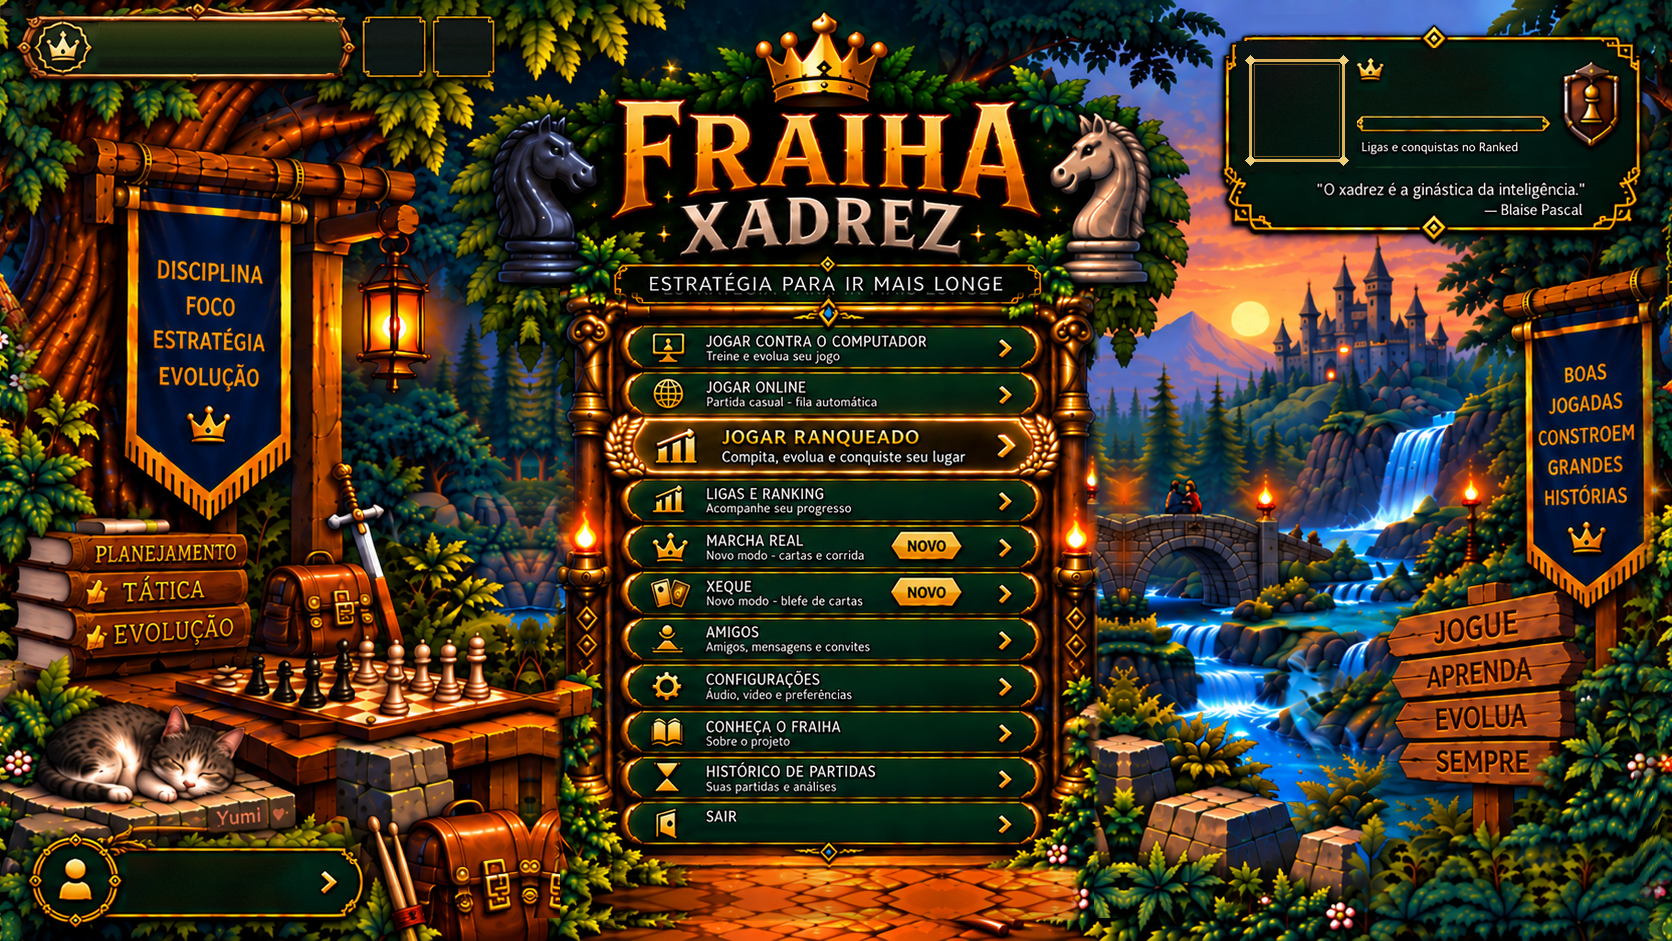
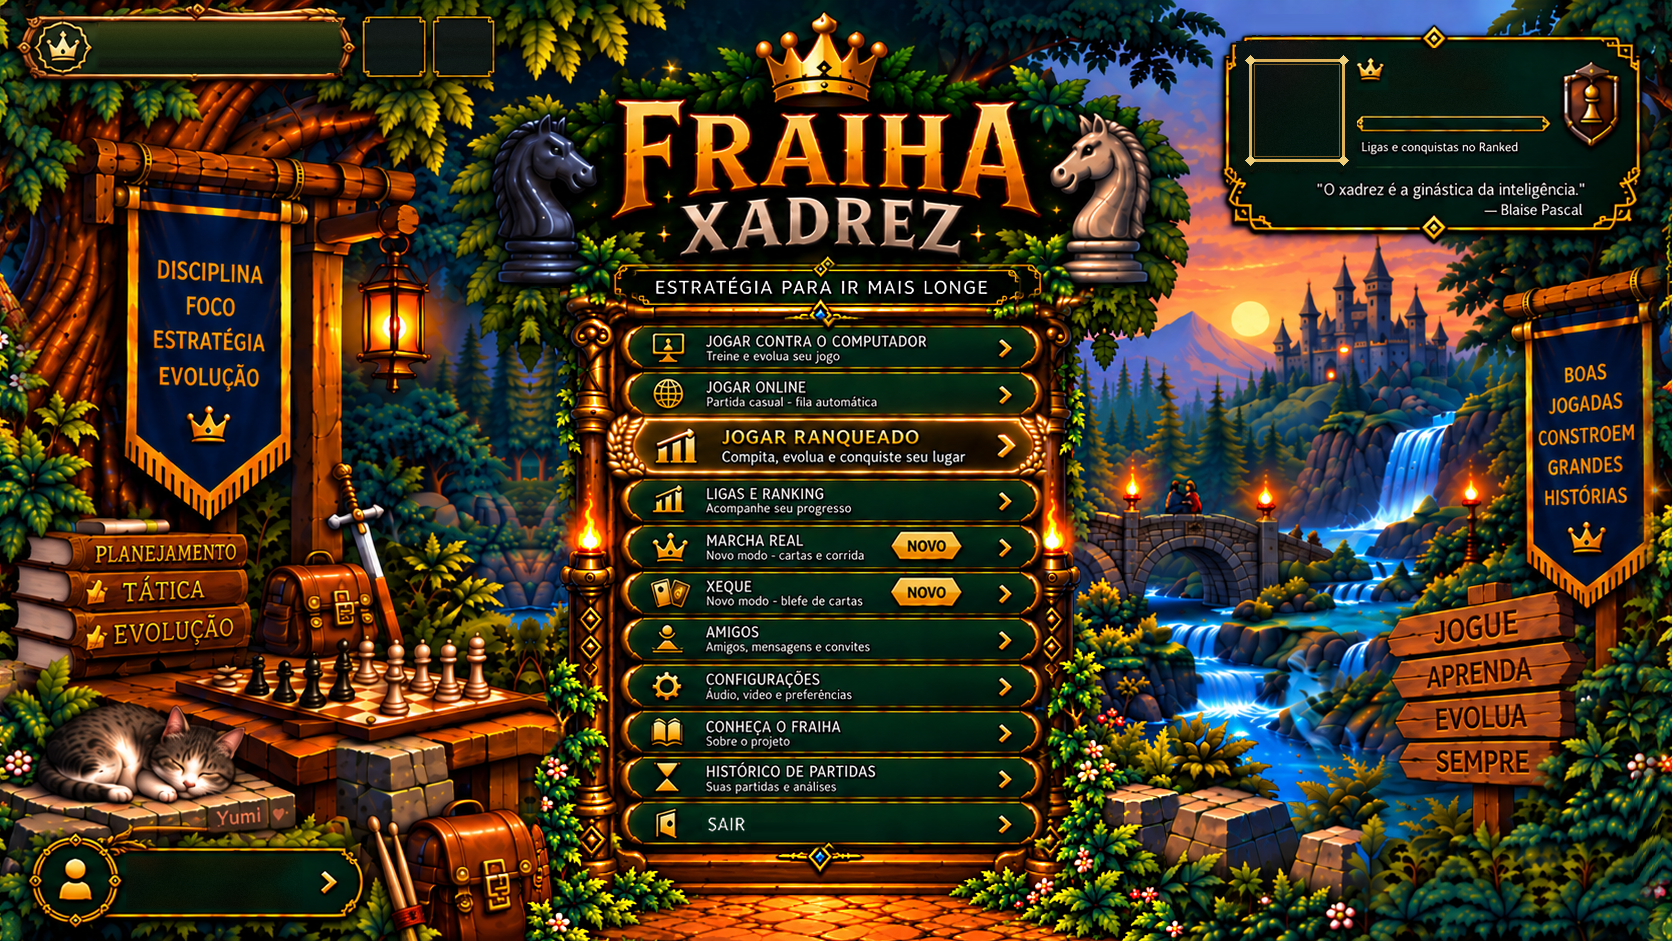
feat(home,marcha): R44 — moldura do menu fechada, animações da Home, SAIR centralizado, Marcha sem limite
- Moldura do menu dando a volta inteira (viga de baixo com a joia, pilares com tochas), placa
  "ESTRATÉGIA PARA IR MAIS LONGE" sem o sombreado, a partir da referência do dono
  (tools/home_r44_frame.py: registro ORB, nitidez, costuras de menor diferença; miolo dos botões
  continua o nosso — textos certos e cliques no lugar). Mochila da esquerda inteira.
- SAIR centralizado na altura do botão.
- Animações (ui_v022/home_fx.gd): tochas e lanterna tremulando, cachoeira/rio correndo, bandos de
  passarinhos no céu, barriguinha da gatinha subindo e descendo.
- MARCHA REAL sem limite diário na fase de testes (servidor e aparelho). Para voltar a limitar:
  FRAIHA_MARCHA_FREE_PER_DAY=N no Render e TEST_PHASE_UNLIMITED=false em marcha_access.gd
  (a contagem de N partidas por dia já está pronta). XEQUE já não tinha limite.

Testes: home_public_menu, home_navigation 28/28, marcha_ui 111/111, xeque_ui 57/57, fullscreen_mode,
game_result_overlay, marcha_server_client 5/5, servidor (todos os testes) OK.

Claude-Session: https://claude.ai/code/session_016vKvXoMfUjcNC2AWvYdkWV

Changed region(s): [[0.311, 0.2774, 0.7153, 1.0]]

diff --git a/online_v021/backend.js b/online_v021/backend.js
@@ -23,7 +23,8 @@ const AUTH_TIMEOUT_MS = 10e3;
 const CANCELLED = Symbol('session_cancelled');
 // Análise pós-partida: contas sem Club têm N análises por dia (dia UTC, relógio do servidor).
 const ANALYSIS_FREE_PER_DAY = Number(process.env.FRAIHA_ANALYSIS_FREE_PER_DAY || 3);
-const MARCHA_FREE_PER_DAY = Number(process.env.FRAIHA_MARCHA_FREE_PER_DAY || 1);   // R32: Marcha Real sem Club
+// R44 · fase de testes: SEM LIMITE (0 = livre para todos). Para voltar a limitar: FRAIHA_MARCHA_FREE_PER_DAY=N no Render.
+const MARCHA_FREE_PER_DAY = Number(process.env.FRAIHA_MARCHA_FREE_PER_DAY || 0);   // R32: Marcha Real sem Club
 const utcDay = () => new Date().toISOString().slice(0, 10);
 const nextUtcMidnight = () => { const d = new Date(); d.setUTCHours(24, 0, 0, 0); return d.toISOString(); };
 
@@ -475,7 +476,7 @@ class Backend {
       if (a === 'marcha_status' || a === 'marcha_start') {
         if (!ws.profile) return this.send(ws, { type: a === 'marcha_start' ? 'marcha_denied' : 'marcha_state', code: 'auth_required', unlimited: false, used: 0, limit: MARCHA_FREE_PER_DAY });
         const ent = await this.checked(ws, revision, this.store.getEntitlements(accountId));
-        if (ent.club_active) return this.send(ws, { type: a === 'marcha_start' ? 'marcha_granted' : 'marcha_state', unlimited: true, used: 0, limit: 0 });
+        if (ent.club_active || MARCHA_FREE_PER_DAY <= 0) return this.send(ws, { type: a === 'marcha_start' ? 'marcha_granted' : 'marcha_state', unlimited: true, used: 0, limit: 0, free_for_all: !ent.club_active });
         if (a === 'marcha_status') {
           const used = await this.checked(ws, revision, this.store.marchaUsage(accountId, utcDay()));
           if (used && used.not_configured) return this.send(ws, { type: 'marcha_state', code: 'not_configured', unlimited: false });
@@ -483,7 +484,7 @@ class Backend {
         }
         const r = await op.wait(() => this.store.marchaConsume(accountId, utcDay(), MARCHA_FREE_PER_DAY));
         if (r.not_configured) return this.send(ws, { type: 'marcha_denied', code: 'not_configured', message: 'Limite diário da Marcha Real ainda não configurado no servidor (migração 0008 pendente).' });
-        if (!r.ok) return this.send(ws, { type: 'marcha_denied', code: 'daily_limit', used: r.used, limit: MARCHA_FREE_PER_DAY, resets_at: nextUtcMidnight(), message: 'Você já jogou sua partida grátis de hoje.' });
+        if (!r.ok) return this.send(ws, { type: 'marcha_denied', code: 'daily_limit', used: r.used, limit: MARCHA_FREE_PER_DAY, resets_at: nextUtcMidnight(), message: 'Você já jogou suas partidas grátis de hoje.' });
         return this.send(ws, { type: 'marcha_granted', unlimited: false, used: r.used, limit: MARCHA_FREE_PER_DAY, resets_at: nextUtcMidnight() });
       }
       // ---------- DEV: simular direitos no servidor em memória (nunca no Supabase) ----------

diff --git a/tools/home_r44_frame.py b/tools/home_r44_frame.py
@@ -1,0 +1,88 @@
+"""R44 · moldura do menu fechada embaixo, mochila da esquerda inteira e placa "ESTRATÉGIA" refeita,
+a partir da referência do dono (tools/home_ref/home_moldura_ref_r44.png, print de 661x657).
+- Registro ORB+RANSAC da referência na arte (escala ~1,139) e nitidez (unsharp) para compensar a ampliação.
+- Miolo dos botões continua o NOSSO (textos certos, SAIR centralizado, cliques no lugar).
+- Emendas por "costura de menor diferença" (programação dinâmica) entre referência e arte, com 3 px
+  de mistura: a divisa passa onde as duas imagens já são parecidas, sem recorte reto.
+Ordem: home_r43_art.py → home_r44_frame.py → home_wide_r43.py."""
+import sys
+import cv2, numpy as np
+ROOT = sys.argv[1] if len(sys.argv) > 1 else '.'
+a = cv2.imread(ROOT + '/ui_v022/assets/home_forest_v7.png').astype(np.float32)
+b = cv2.imread(ROOT + '/tools/home_ref/home_moldura_ref_r44.png')
+H, W = a.shape[:2]
+orb = cv2.ORB_create(6000)
+ka, da = orb.detectAndCompute(cv2.cvtColor(a.astype(np.uint8), cv2.COLOR_BGR2GRAY), None)
+kb, db = orb.detectAndCompute(cv2.cvtColor(b, cv2.COLOR_BGR2GRAY), None)
+m = sorted(cv2.BFMatcher(cv2.NORM_HAMMING, crossCheck=True).match(db, da), key=lambda x: x.distance)[:800]
+pb = np.float32([kb[x.queryIdx].pt for x in m]); pa = np.float32([ka[x.trainIdx].pt for x in m])
+M, inl = cv2.estimateAffinePartial2D(pb, pa, ransacReprojThreshold=3)
+print('registro', np.round(M, 4).tolist(), int(inl.sum()))
+r = cv2.warpAffine(b, M, (W, H), flags=cv2.INTER_CUBIC, borderMode=cv2.BORDER_REPLICATE).astype(np.float32)
+blur = cv2.GaussianBlur(r, (0, 0), 1.0)
+r = np.clip(r + 0.7 * (r - blur), 0, 255)            # nitidez
+diff = np.abs(r - a).sum(2)
+
+def vseam(x0, x1, y0, y1):
+    """costura vertical (um x por linha) de menor diferença em [x0,x1) x [y0,y1)"""
+    c = diff[y0:y1, x0:x1].copy(); E = c.copy()
+    for i in range(1, E.shape[0]):
+        p = E[i - 1]; q = np.minimum(p, np.minimum(np.r_[p[1:], 1e9], np.r_[1e9, p[:-1]])); E[i] += q
+    xs = np.zeros(y1 - y0, int); xs[-1] = int(np.argmin(E[-1]))
+    for i in range(E.shape[0] - 2, -1, -1):
+        j = xs[i + 1]; lo = max(0, j - 1); xs[i] = lo + int(np.argmin(E[i, lo:min(E.shape[1], j + 2)]))
+    return xs + x0
+
+def hseam(y0, y1, x0, x1):
+    global diff
+    d0 = diff; diff = diff.T.copy()
+    ys = vseam(y0, y1, x0, x1); diff = d0
+    return ys
+
+# área da referência: entre as costuras de fora (lados e topo); a base é o fim da arte
+L0 = vseam(476, 560, 300, H)                 # lado esquerdo (mochila / plantas)
+R0 = vseam(1130, 1215, 300, H)               # lado direito
+T0 = hseam(266, 332, 476, 1215)              # topo (acima da placa)
+take = np.zeros((H, W), np.float32)
+for x in range(476, 1215):
+    take[T0[x - 476]:, x] = 1.0
+for y in range(300, H):
+    take[y, :L0[y - 300]] = 0.0; take[y, R0[y - 300]:] = 0.0
+take[:300, :476] = 0; take[:300, 1215:] = 0
+for y in range(266, 300):                     # cantos de cima: fecha com as colunas extremas
+    take[y, :L0[0]] = 0.0; take[y, R0[0]:] = 0.0
+# miolo dos botões: o NOSSO (costuras internas)
+IL = vseam(606, 619, 318, 848); IR = vseam(1043, 1053, 318, 848)   # rente às argolas dos botões: os pilares (e tochas) vêm da referência
+IT = hseam(306, 326, 640, 1020); IB = hseam(840, 852, 640, 1020)
+for y in range(318, 848):
+    take[y, IL[y - 318]:IR[y - 318]] = 0.0
+for x in range(640, 1020):
+    take[IT[x - 640]:318, x] = 0.0
+    take[848:IB[x - 640], x] = 0.0
+# placa "ESTRATÉGIA PARA IR MAIS LONGE" refeita (sem o sombreado estranho): sempre da referência
+PX0, PX1, PY0, PY1 = 636, 1018, 266, 318
+pl = np.zeros((H, W), np.float32); pl[PY0:PY1, PX0:PX1] = 1.0
+pl = cv2.GaussianBlur(pl, (0, 0), 2.0); pl[PY0 + 4:PY1, PX0 + 4:PX1 - 4] = 1.0
+take = np.maximum(take, pl)
+take = cv2.GaussianBlur(take, (0, 0), 1.2)    # ~3 px de mistura nas costuras
+out = a * (1 - take[..., None]) + r * take[..., None]
+# mochila da esquerda INTEIRA (a da arte oficial R36): o recorte vinha do menu encolhido (colunas
+# espelhadas) e a referência só mostra metade dela. Couro marrom/laranja da original, contorno suave.
+orig = cv2.imread(ROOT + '/tools/home_ref/home_forest_v7_r36_original.png').astype(np.float32)
+BX0, BX1, BY0, BY1 = 405, 562, 792, 932
+ob = orig[BY0:BY1, BX0:BX1]
+bb, gg, rr = ob[..., 0], ob[..., 1], ob[..., 2]
+leather = ((rr > gg + 28) & (rr > 70) & (gg < rr * 0.82)).astype(np.uint8)
+n, lab, st, _ = cv2.connectedComponentsWithStats(leather)
+keep = np.zeros_like(leather)
+if n > 1:
+    big = 1 + int(np.argmax(st[1:, cv2.CC_STAT_AREA]))
+    keep = (lab == big).astype(np.uint8)
+keep = cv2.morphologyEx(keep, cv2.MORPH_CLOSE, np.ones((7, 7), np.uint8))
+cs, _ = cv2.findContours(keep, cv2.RETR_EXTERNAL, cv2.CHAIN_APPROX_NONE)
+keep = np.zeros_like(keep); cv2.drawContours(keep, cs, -1, 1, thickness=-1)   # fecha buracos (fivela, sombras)
+bm = cv2.GaussianBlur(cv2.dilate(keep, np.ones((3, 3), np.uint8)).astype(np.float32), (0, 0), 0.8)
+out[BY0:BY1, BX0:BX1] = out[BY0:BY1, BX0:BX1] * (1 - bm[..., None]) + ob * bm[..., None]
+cv2.imwrite(ROOT + '/ui_v022/assets/home_forest_v7.png', np.clip(out, 0, 255).astype(np.uint8))
+np.save('/tmp/claude-0/frame/take.npy', take)
+print('ok')

diff --git a/tools/home_r43_art.py b/tools/home_r43_art.py
@@ -43,5 +43,23 @@ for i in range(6):
     mk[i, :] = np.minimum(mk[i, :], v); mk[-1 - i, :] = np.minimum(mk[-1 - i, :], v)
     mk[:, i] = np.minimum(mk[:, i], v); mk[:, -1 - i] = np.minimum(mk[:, -1 - i], v)
 img.paste(m, (nx0, ny0), Image.fromarray(mk))
+# R44 · SAIR: o texto da arte ficava no alto da linha (feito para ter subtítulo). Agora fica um pouco
+# maior e centralizado na altura da linha (mesmo centro do ícone e da seta), mantendo a margem esquerda.
+b = np.asarray(img).astype(np.float32)
+TX0, TY0, TX1, TY1 = 704, 808, 739, 825          # caixa do "SAIR" na arte (com contorno)
+patch = b[TY0:TY1, TX0:TX1].copy()
+lum = patch.mean(2)
+alpha = np.clip((lum - 70) / 110, 0, 1)            # letras claras; o fundo verde é escuro
+bg = b[TY0 - 2:TY1 + 12, 905:905 + (TX1 - TX0 + 14)].copy()   # mesmo verde do botão, sem texto
+b[TY0 - 2:TY1 + 12, TX0 - 2:TX1 + 12] = bg
+SC = 1.22
+pw, ph = round((TX1 - TX0) * SC), round((TY1 - TY0) * SC)
+rgba = np.dstack([patch, alpha[..., None] * 255]).astype(np.uint8)
+txt = np.asarray(Image.fromarray(rgba, 'RGBA').resize((pw, ph), Image.LANCZOS)).astype(np.float32)
+cy = 823.0                                          # centro da linha (ícone 802..843, seta ~825)
+oy = round(cy - ph / 2 + 1); ox = TX0 + 1
+al = txt[..., 3:4] / 255.0
+b[oy:oy + ph, ox:ox + pw] = b[oy:oy + ph, ox:ox + pw] * (1 - al) + txt[..., :3] * al
+img = Image.fromarray(np.clip(b, 0, 255).astype(np.uint8))
 img.save(ROOT + '/ui_v022/assets/home_forest_v7.png')
 print('ok', (nx0, ny0, mw, mh))
